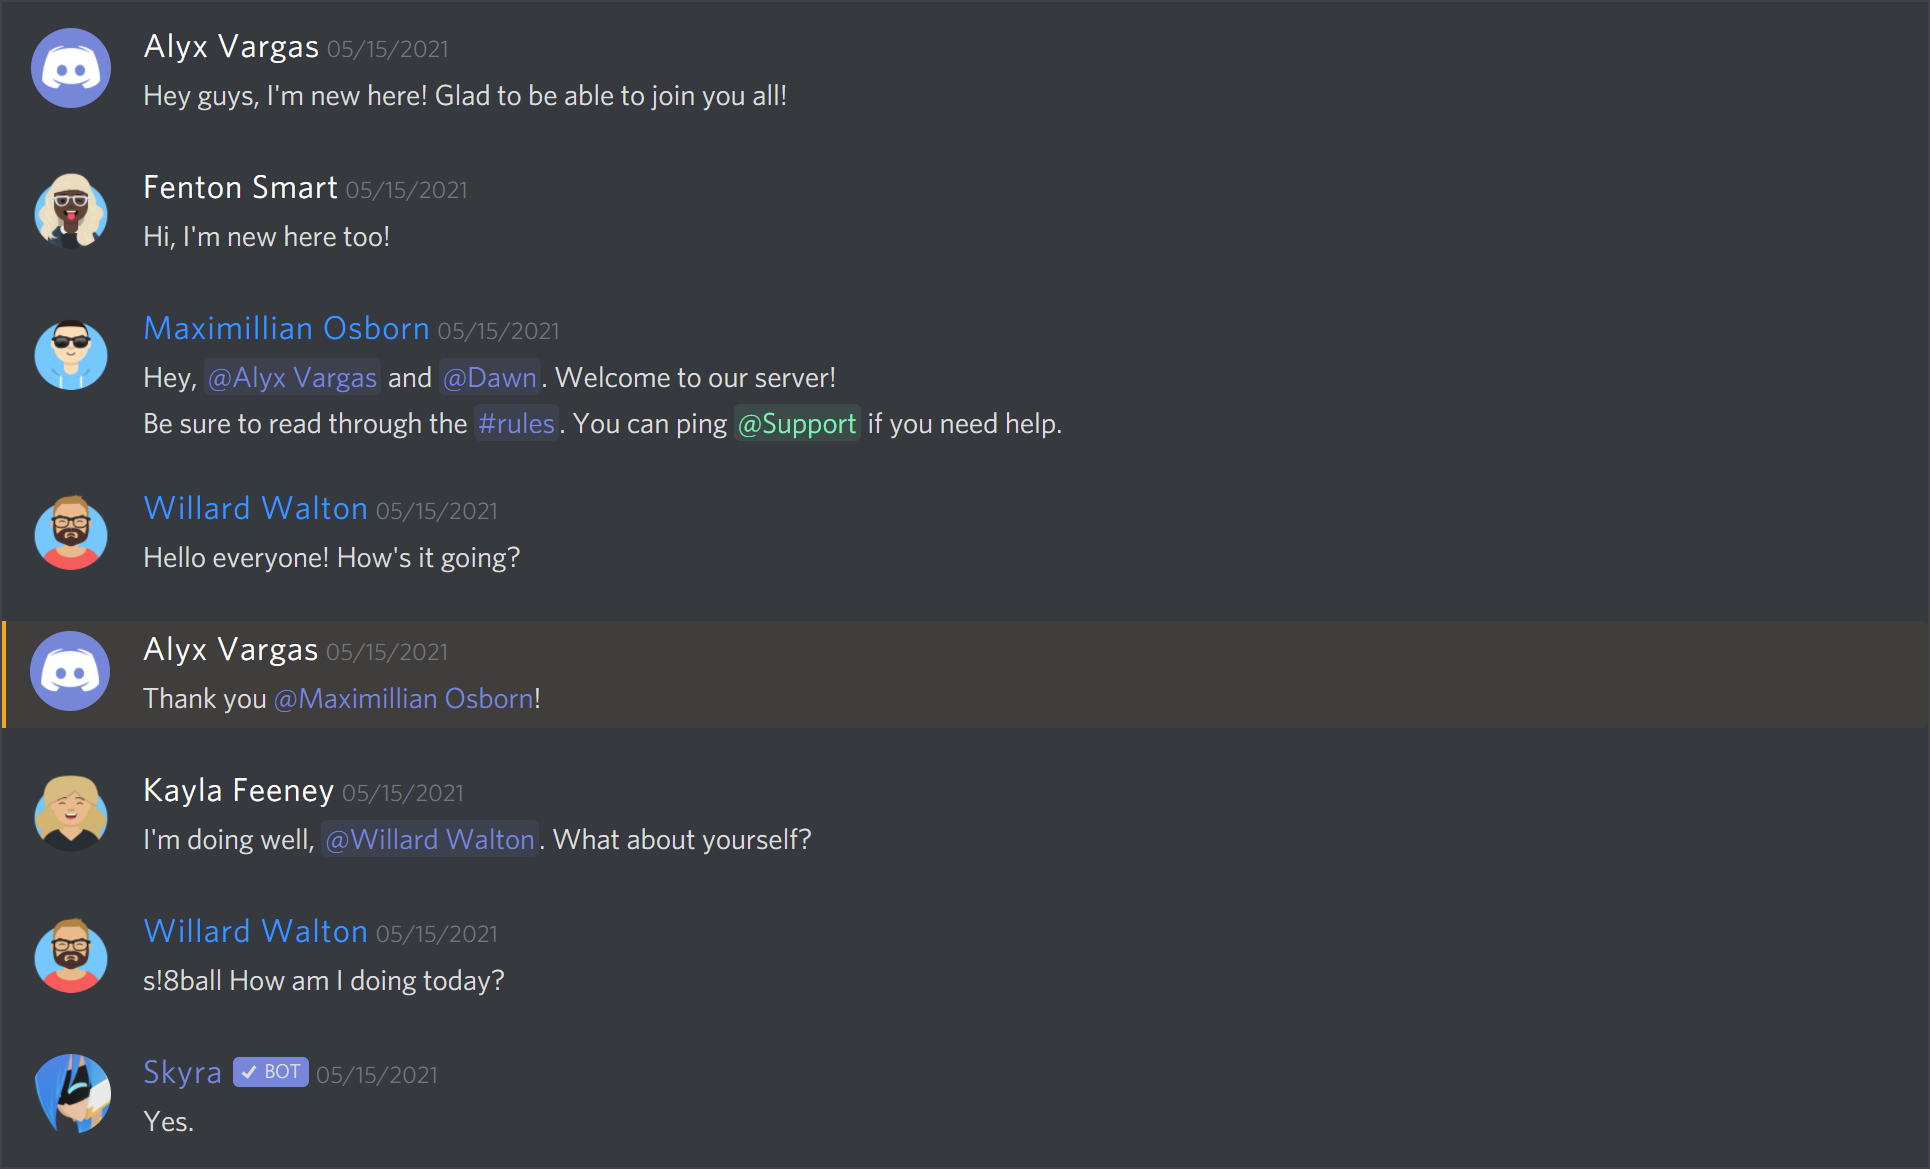
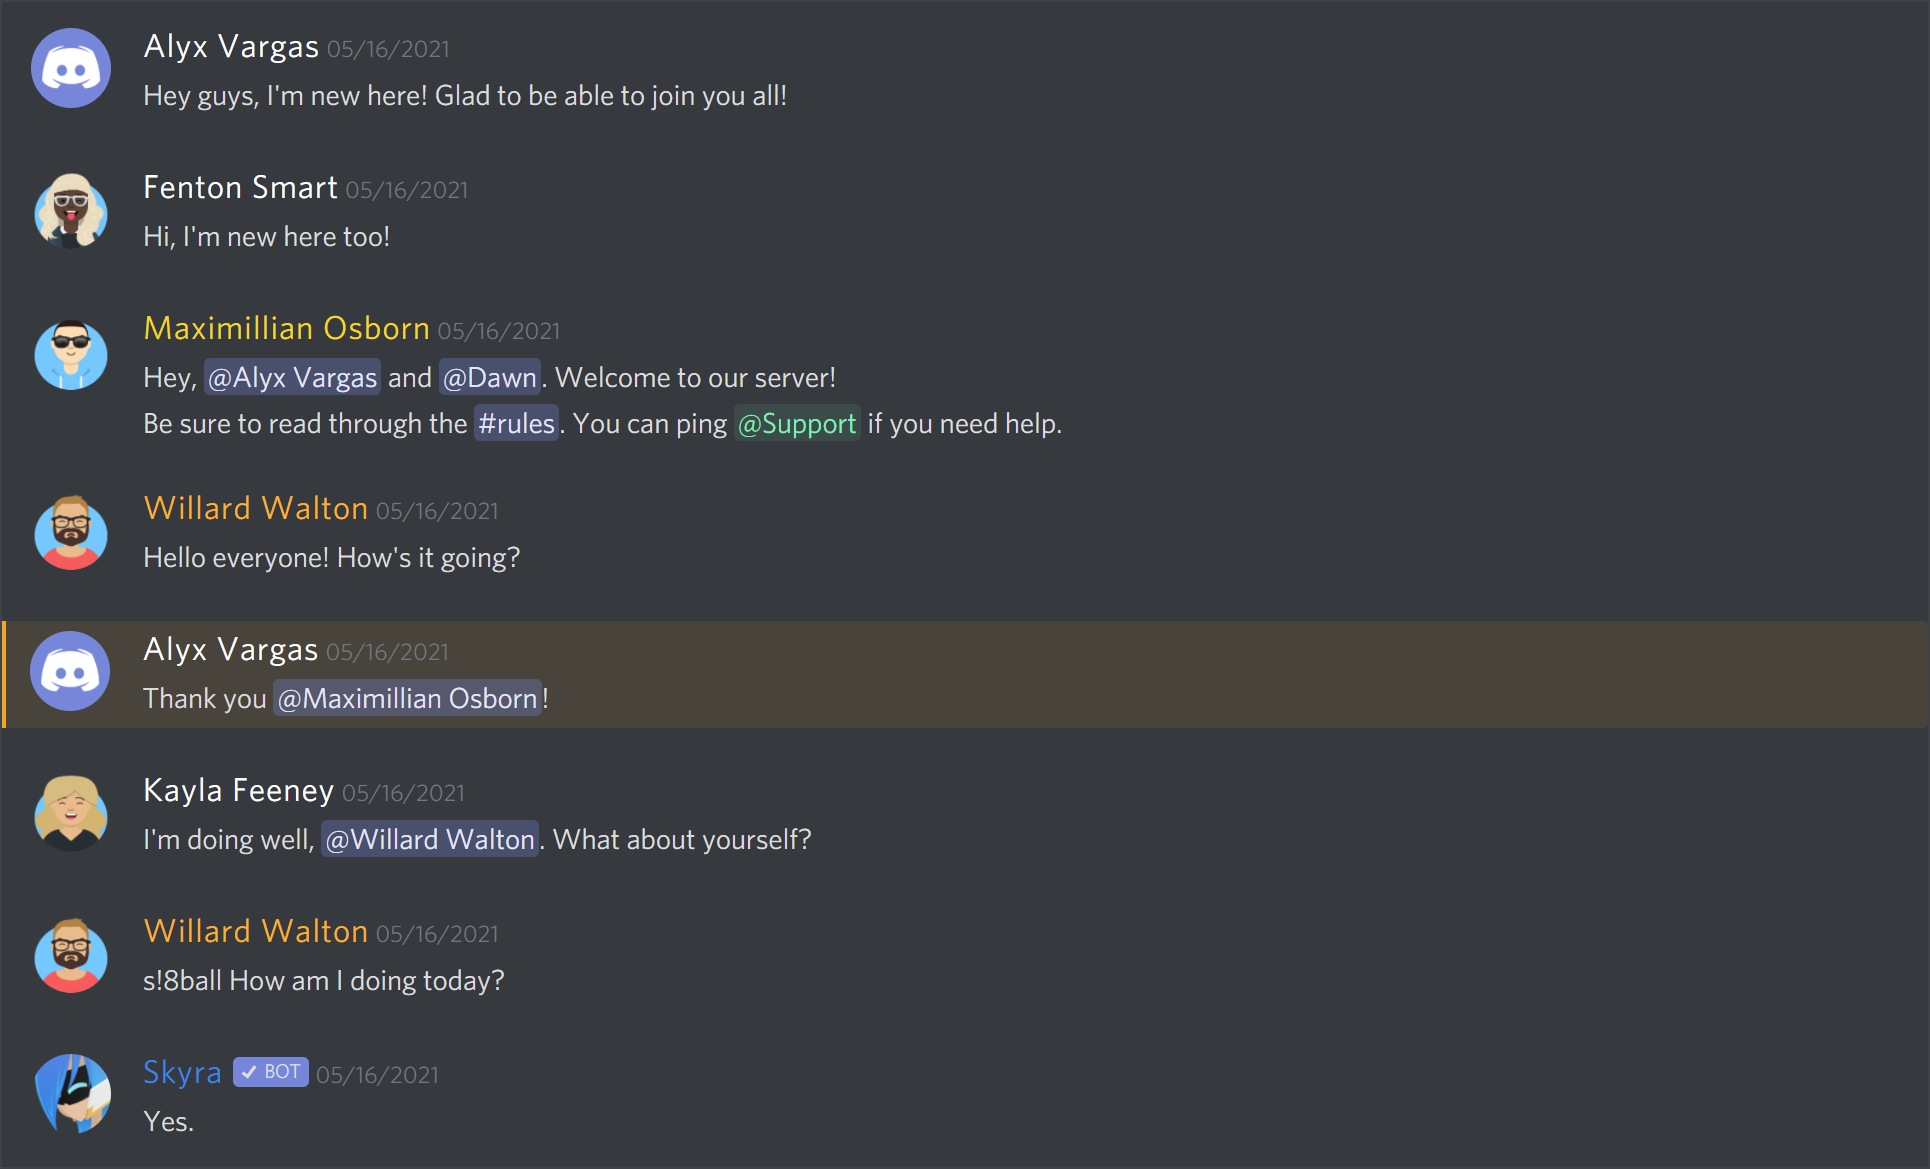
fix(core): update mention colours to match Discord May 2021 redesign

diff --git a/packages/core/src/components/discord-mention/discord-mention.css b/packages/core/src/components/discord-mention/discord-mention.css
@@ -1,14 +1,29 @@
 .discord-message .discord-mention {
-	color: #7289da;
-	background-color: rgba(114, 137, 218, 0.1);
+	color: #e3e7f8;
+	background-color: rgba(114, 137, 218, 0.3);
 	font-weight: 500;
 	padding: 0 2px;
 	border-radius: 3px;
+	unicode-bidi: -moz-plaintext;
+	unicode-bidi: plaintext;
+	-webkit-transition: background-color 50ms ease-out, color 50ms ease-out;
+	transition: background-color 50ms ease-out, color 50ms ease-out;
+	cursor: pointer;
 }
 
 .discord-message .discord-mention:hover {
 	color: #fff;
-	background-color: rgba(114, 137, 218, 0.7);
+	background-color: #7289da;
+}
+
+.discord-light-theme .discord-message .discord-mention {
+	color: #687dc6;
+	background-color: rgba(114, 137, 218, 0.15);
+}
+
+.discord-light-theme .discord-message .discord-mention:hover {
+	color: #ffffff;
+	background-color: #7289da;
 }
 
 .discord-message.discord-highlight-mention {
@@ -16,7 +31,6 @@
 	border-radius: 0 3px 3px 0;
 	padding-right: 5px;
 	position: relative;
-	background-color: rgba(250, 166, 26, 0.05);
 	padding-left: 0.85em;
 }
 
@@ -33,7 +47,7 @@
 }
 
 .discord-message.discord-highlight-mention::before {
-	background-color: #faa61a;
+	background-color: rgb(250, 166, 26);
 	content: ' ';
 	position: relative;
 	display: block;
@@ -42,15 +56,4 @@
 	bottom: 0;
 	pointer-events: none;
 	width: 2px;
-}
-
-.discord-message.discord-highlight-mention .discord-mention:not(.discord-channel-mention) {
-	background-color: unset !important;
-	padding: 0;
-	border-radius: 0;
-}
-
-.discord-message.discord-highlight-mention .discord-mention:not(.discord-channel-mention):hover {
-	color: #7289da;
-	text-decoration: underline;
 }

diff --git a/packages/core/src/index.html b/packages/core/src/index.html
@@ -37,24 +37,24 @@
 					maximillian: {
 						author: 'Maximillian Osborn',
 						avatar: `/static/avaone.png`,
-						roleColor: '#0099ff'
+						roleColor: '#f9d61b'
 					},
 					willard: {
 						author: 'Willard Walton',
 						avatar: `/static/avatwo.png`,
-						roleColor: '#0099ff'
+						roleColor: '#ffb12f'
 					},
 					skyra: {
 						author: 'Skyra',
 						avatar: 'https://github.com/NM-EEA-Y.png',
-						roleColor: '#7289da',
+						roleColor: '#1e88e5',
 						bot: true,
 						verified: true
 					},
 					favna: {
 						author: 'Favna',
 						avatar: 'https://github.com/favna.png',
-						roleColor: '#FF0000'
+						roleColor: '#a155ab'
 					}
 				}
 			};
